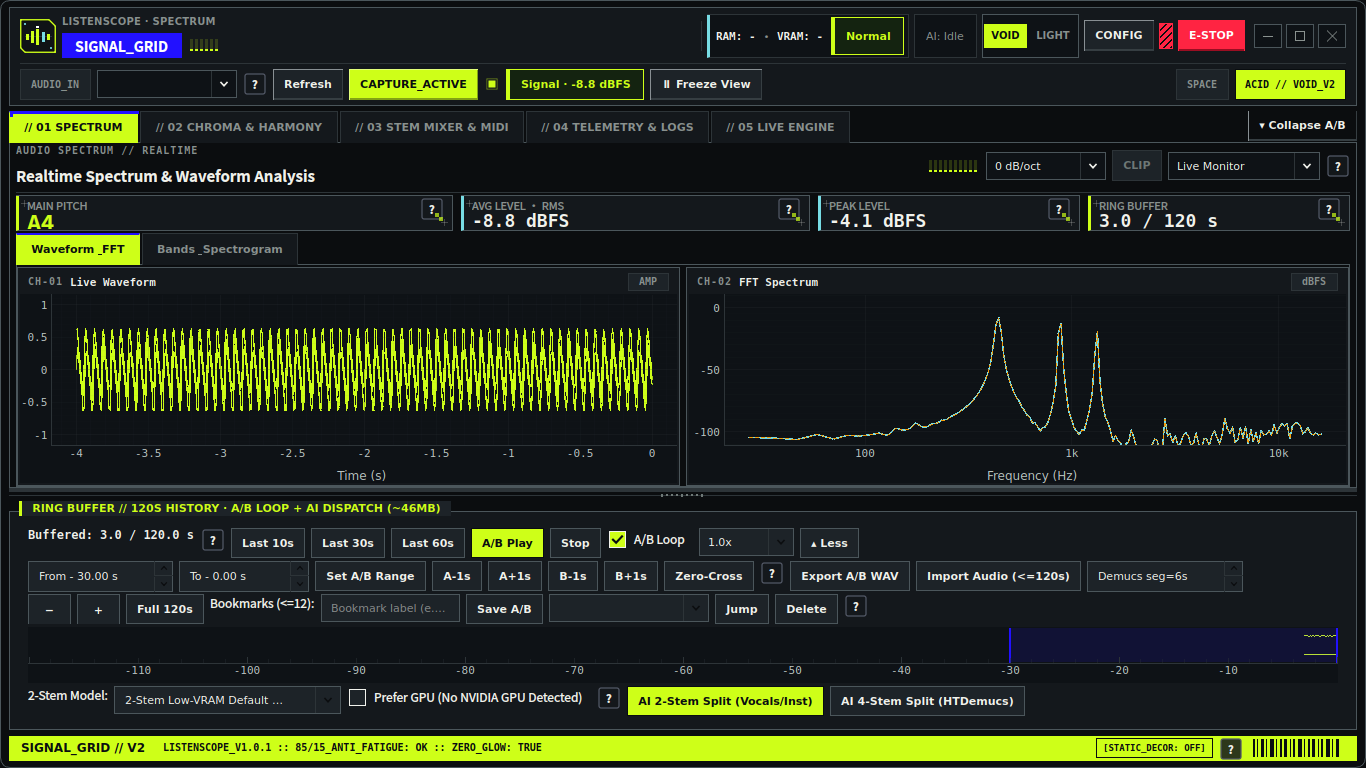
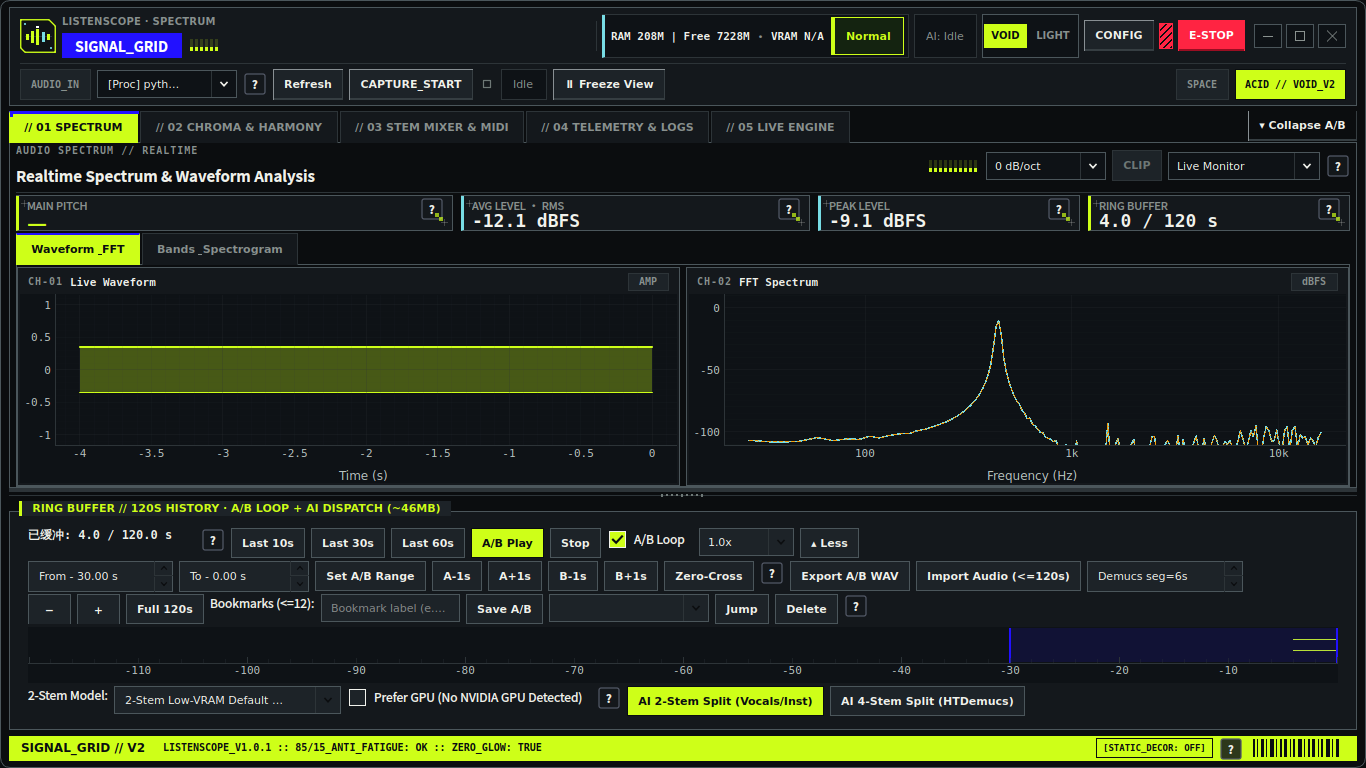
fix(U-B34): incremental 512-bucket 4s waveform envelope, AnalysisConfig.waveform_window_seconds, FillBetweenItem, and tests

diff --git a/analysis/worker.py b/analysis/worker.py
@@ -63,6 +63,20 @@ class AnalysisWorker:
         self._reset_boundary: tuple[int, int] | None = None
         self._dropped_cycles: int = 0
 
+        # Incremental 512-bucket waveform min/max ring (U-B34)
+        self._wf_num_buckets: int = max(1, int(self.config.waveform_display_points))
+        self._wf_bucket_frames: int = max(
+            1,
+            int(round(float(self.config.waveform_window_seconds) * self.audio_config.sample_rate / self._wf_num_buckets)),
+        )
+        self._wf_window_frames: int = self._wf_num_buckets * self._wf_bucket_frames
+        self._wf_min_ring = np.zeros(self._wf_num_buckets, dtype=np.float32)
+        self._wf_max_ring = np.zeros(self._wf_num_buckets, dtype=np.float32)
+        self._wf_head_bucket: int = -1
+        self._wf_last_abs: int = 0
+        self._wf_generation: Optional[int] = None
+        self._wf_reset_boundary: tuple[int, int] | None = None
+
         # 1/24-octave log-frequency FFT display grid (27.5 Hz .. 16 kHz, 221 bins)
         self._disp_f = np.geomspace(
             max(20.0, float(self.config.min_freq_hz)),
@@ -123,8 +137,164 @@ class AnalysisWorker:
             self._last_analyzed_frame = -1
             self._onset_cursor = None
             self._onset_generation = None
+            self._reset_waveform_ring()
             with self._lock:
                 self._latest_snapshot = None
+
+    def _reset_waveform_ring(self) -> None:
+        self._wf_min_ring.fill(0.0)
+        self._wf_max_ring.fill(0.0)
+        self._wf_head_bucket = -1
+        self._wf_last_abs = 0
+        self._wf_generation = None
+        self._wf_reset_boundary = None
+
+    def _update_waveform_buckets(self, mono_new: np.ndarray, abs_start: int) -> None:
+        n = int(mono_new.shape[0])
+        if n <= 0:
+            return
+        bf = self._wf_bucket_frames
+        nb = self._wf_num_buckets
+        b0 = abs_start // bf
+        b1 = (abs_start + n - 1) // bf
+
+        first_boundary = bf - (abs_start % bf)
+        if first_boundary < n:
+            boundaries = np.arange(first_boundary, n, bf, dtype=np.intp)
+            cuts = np.empty(boundaries.size + 1, dtype=np.intp)
+            cuts[0] = 0
+            cuts[1:] = boundaries
+        else:
+            cuts = np.array([0], dtype=np.intp)
+
+        b_mins = np.minimum.reduceat(mono_new, cuts)
+        b_maxs = np.maximum.reduceat(mono_new, cuts)
+
+        if self._wf_head_bucket < 0:
+            self._wf_min_ring.fill(0.0)
+            self._wf_max_ring.fill(0.0)
+            first_is_continuation = False
+        else:
+            first_is_continuation = (b0 == self._wf_head_bucket)
+            gap = b0 - self._wf_head_bucket - 1
+            if gap > 0:
+                if gap >= nb:
+                    self._wf_min_ring.fill(0.0)
+                    self._wf_max_ring.fill(0.0)
+                else:
+                    g_start = (self._wf_head_bucket + 1) % nb
+                    g_end = g_start + gap
+                    if g_end <= nb:
+                        self._wf_min_ring[g_start:g_end] = 0.0
+                        self._wf_max_ring[g_start:g_end] = 0.0
+                    else:
+                        first_part = nb - g_start
+                        self._wf_min_ring[g_start:] = 0.0
+                        self._wf_min_ring[: gap - first_part] = 0.0
+                        self._wf_max_ring[g_start:] = 0.0
+                        self._wf_max_ring[: gap - first_part] = 0.0
+
+        slot0 = b0 % nb
+        if first_is_continuation:
+            if b_mins[0] < self._wf_min_ring[slot0]:
+                self._wf_min_ring[slot0] = b_mins[0]
+            if b_maxs[0] > self._wf_max_ring[slot0]:
+                self._wf_max_ring[slot0] = b_maxs[0]
+            rem_mins = b_mins[1:]
+            rem_maxs = b_maxs[1:]
+            rem_start = (b0 + 1) % nb
+        else:
+            rem_mins = b_mins
+            rem_maxs = b_maxs
+            rem_start = slot0
+
+        m = int(rem_mins.shape[0])
+        if m > 0:
+            if m >= nb:
+                rem_mins = rem_mins[-nb:]
+                rem_maxs = rem_maxs[-nb:]
+                rem_start = (b1 - nb + 1) % nb
+                m = nb
+            rem_end = rem_start + m
+            if rem_end <= nb:
+                self._wf_min_ring[rem_start:rem_end] = rem_mins
+                self._wf_max_ring[rem_start:rem_end] = rem_maxs
+            else:
+                first_part = nb - rem_start
+                self._wf_min_ring[rem_start:] = rem_mins[:first_part]
+                self._wf_min_ring[: m - first_part] = rem_mins[first_part:]
+                self._wf_max_ring[rem_start:] = rem_maxs[:first_part]
+                self._wf_max_ring[: m - first_part] = rem_maxs[first_part:]
+
+        self._wf_head_bucket = b1
+
+    def _compute_incremental_waveform(
+        self,
+        *,
+        ring_generation: int,
+        oldest_abs: int,
+        end_abs: int,
+        pcm_start_abs: int,
+        mono_all: np.ndarray,
+    ) -> tuple[np.ndarray, np.ndarray]:
+        active_boundary = (
+            self._reset_boundary
+            if (self._reset_boundary is not None and self._reset_boundary[0] == ring_generation)
+            else None
+        )
+        effective_start = max(oldest_abs, active_boundary[1]) if active_boundary is not None else oldest_abs
+
+        if (
+            self._wf_generation != ring_generation
+            or self._wf_reset_boundary != active_boundary
+            or self._wf_last_abs > end_abs
+        ):
+            self._wf_min_ring.fill(0.0)
+            self._wf_max_ring.fill(0.0)
+            self._wf_head_bucket = -1
+            self._wf_last_abs = effective_start
+            self._wf_generation = ring_generation
+            self._wf_reset_boundary = active_boundary
+
+        if end_abs <= effective_start:
+            self._wf_min_ring.fill(0.0)
+            self._wf_max_ring.fill(0.0)
+            self._wf_head_bucket = -1
+            self._wf_last_abs = end_abs
+            return self._wf_min_ring.copy(), self._wf_max_ring.copy()
+
+        process_start = max(effective_start, self._wf_last_abs)
+        new_frames = end_abs - process_start
+        if new_frames > 0:
+            if new_frames >= self._wf_window_frames:
+                self._wf_min_ring.fill(0.0)
+                self._wf_max_ring.fill(0.0)
+                self._wf_head_bucket = -1
+                process_start = max(effective_start, end_abs - self._wf_window_frames)
+
+            if process_start >= pcm_start_abs and mono_all.shape[0] > 0:
+                mono_new = mono_all[process_start - pcm_start_abs :]
+            else:
+                pcm_seg = self.ring_buffer.read_range(process_start, end_abs)
+                if pcm_seg.shape[0] == 0:
+                    mono_new = np.empty(0, dtype=np.float32)
+                elif pcm_seg.shape[1] == 2:
+                    mono_new = (0.5 * (pcm_seg[:, 0] + pcm_seg[:, 1])).astype(np.float32, copy=False)
+                else:
+                    mono_new = np.mean(pcm_seg, axis=1, dtype=np.float32)
+            self._update_waveform_buckets(mono_new, process_start)
+            self._wf_last_abs = end_abs
+
+        if self._wf_head_bucket < 0:
+            return np.zeros(self._wf_num_buckets, dtype=np.float32), np.zeros(self._wf_num_buckets, dtype=np.float32)
+
+        split = (self._wf_head_bucket + 1) % self._wf_num_buckets
+        if split == 0:
+            return self._wf_min_ring.copy(), self._wf_max_ring.copy()
+        return (
+            np.concatenate((self._wf_min_ring[split:], self._wf_min_ring[:split])),
+            np.concatenate((self._wf_max_ring[split:], self._wf_max_ring[:split])),
+        )
 
     def latest_snapshot(self) -> Optional[AnalysisSnapshot]:
         with self._lock:
@@ -180,7 +350,14 @@ class AnalysisWorker:
             audio_silent = rms_db < self.config.silence_threshold_dbfs
             is_silent = (end_abs == prev_abs) or audio_silent
 
-        wf_min, wf_max = self.spectrum.compute_waveform_envelope(mono)
+        oldest_abs = max(0, end_abs - self.ring_buffer.capacity_frames)
+        wf_min, wf_max = self._compute_incremental_waveform(
+            ring_generation=ring_generation,
+            oldest_abs=oldest_abs,
+            end_abs=end_abs,
+            pcm_start_abs=start_abs,
+            mono_all=mono_all,
+        )
         fft_mag, fft_db, log_db = self.spectrum.analyze_frame(mono)
         pitch_est = self.pitch.estimate_from_pcm(mono, is_silent=is_silent)
 

diff --git a/tests/test_review_phase2c.py b/tests/test_review_phase2c.py
@@ -517,7 +517,6 @@ def test_ub03_dark_dock_contrast_header_no_clip_1093_no_overflow_and_tab05_acces
         mixer.close()
 
 
-@pytest.mark.xfail(strict=True, reason="U-B34")
 def test_ub34_realtime_waveform_envelope_4s_uniform_band_for_440hz_and_1khz() -> None:
     """U-B34: 4s realtime waveform min/max envelope for 440Hz & 1kHz sine must form a uniform +/-A band (no aliasing)."""
     from analysis.worker import AnalysisWorker
@@ -542,6 +541,93 @@ def test_ub34_realtime_waveform_envelope_4s_uniform_band_for_440hz_and_1khz() ->
         assert float(np.max(wmin)) <= -0.9 * amp, (
             f"{freq} Hz waveform_min rose to {float(np.max(wmin)):.3f} (need <= {-0.9 * amp:.3f})"
         )
+
+
+def test_ub34_8khz_sine_uniform_band_no_aliasing() -> None:
+    """U-B34: 8 kHz high-frequency sine over 4s window must also form a uniform +/-A band without subsampling loss."""
+    from analysis.worker import AnalysisWorker
+    from audio.ring_buffer import FixedRingBuffer
+    from core.config import AnalysisConfig, AudioConfig
+
+    acfg = AudioConfig(sample_rate=48000, channels=2, ring_buffer_seconds=10)
+    amp = 0.5
+    t = np.arange(48000 * 4, dtype=np.float32) / 48000.0
+    rb = FixedRingBuffer(acfg)
+    sig = (amp * np.sin(2.0 * np.pi * 8003.0 * t)).astype(np.float32)
+    rb.write(np.stack([sig, sig], axis=1))
+    w = AnalysisWorker(rb, audio_config=acfg, analysis_config=AnalysisConfig())
+    snap = w.analyze_latest_once()
+    wmin = np.asarray(snap.waveform_min, dtype=np.float32)
+    wmax = np.asarray(snap.waveform_max, dtype=np.float32)
+    assert wmax.size == 512 and wmin.size == 512
+    assert float(np.min(wmax)) >= 0.9 * amp
+    assert float(np.max(wmin)) <= -0.9 * amp
+
+
+def test_ub34_clear_or_generation_change_resets_waveform_ring() -> None:
+    """U-B34: RingBuffer clear/generation change resets bucket ring to zeros; partial <4s audio pads left with zeros."""
+    from analysis.worker import AnalysisWorker
+    from audio.ring_buffer import FixedRingBuffer
+    from core.config import AnalysisConfig, AudioConfig
+
+    acfg = AudioConfig(sample_rate=48000, channels=2, ring_buffer_seconds=10)
+    rb = FixedRingBuffer(acfg)
+    w = AnalysisWorker(rb, audio_config=acfg, analysis_config=AnalysisConfig())
+
+    # 1s of audio -> left 3/4 (384 buckets) must be 0.0, right 1/4 (128 buckets) non-zero
+    t1 = np.arange(48000, dtype=np.float32) / 48000.0
+    sig1 = (0.4 * np.sin(2.0 * np.pi * 440.0 * t1)).astype(np.float32)
+    rb.write(np.stack([sig1, sig1], axis=1))
+    snap1 = w.analyze_latest_once()
+    wmax1 = np.asarray(snap1.waveform_max, dtype=np.float32)
+    assert wmax1.size == 512
+    assert np.all(wmax1[:384] == 0.0)
+    assert float(np.min(wmax1[384:])) >= 0.36
+
+    # clear() bumps generation -> bucket ring must reset to all zeros
+    rb.clear()
+    snap_cleared = w.analyze_latest_once()
+    assert np.all(np.asarray(snap_cleared.waveform_min, dtype=np.float32) == 0.0)
+    assert np.all(np.asarray(snap_cleared.waveform_max, dtype=np.float32) == 0.0)
+
+
+def test_ub34_incremental_chunks_match_direct_reduceat_bucket_by_bucket() -> None:
+    """U-B34: Incremental 1s/3s/1s chunks match direct reduceat over latest 4s, and UI uses FillBetweenItem + AnalysisConfig."""
+    import pyqtgraph as pg
+    from analysis.worker import AnalysisWorker
+    from audio.ring_buffer import FixedRingBuffer
+    from core.config import AnalysisConfig, AudioConfig
+    from ui.spectrum_widget import SpectrumAnalysisWidget
+
+    acfg = AudioConfig(sample_rate=48000, channels=2, ring_buffer_seconds=10)
+    cfg = AnalysisConfig()
+    assert cfg.waveform_window_seconds == 4.0
+    rb = FixedRingBuffer(acfg)
+    w = AnalysisWorker(rb, audio_config=acfg, analysis_config=cfg)
+
+    rng = np.random.default_rng(42)
+    full_mono = rng.uniform(-0.8, 0.8, size=48000 * 5).astype(np.float32)
+
+    # Feed 1s, then 3s, then 1s (total 5s -> latest 4s is full_mono[48000:])
+    for s_start, s_end in ((0, 48000), (48000, 48000 * 4), (48000 * 4, 48000 * 5)):
+        chunk = full_mono[s_start:s_end]
+        rb.write(np.stack([chunk, chunk], axis=1))
+        snap = w.analyze_latest_once()
+
+    latest_4s = full_mono[48000:]
+    cuts = np.arange(0, 48000 * 4, 375, dtype=np.intp)
+    ref_min = np.minimum.reduceat(latest_4s, cuts)
+    ref_max = np.maximum.reduceat(latest_4s, cuts)
+    assert np.allclose(snap.waveform_min, ref_min, atol=1e-6)
+    assert np.allclose(snap.waveform_max, ref_max, atol=1e-6)
+
+    _get_app()
+    sw = SpectrumAnalysisWidget(analysis_config=cfg)
+    fills = [item for item in sw.wave_plot.listDataItems() + sw.wave_plot.getPlotItem().items if isinstance(item, pg.FillBetweenItem)]
+    assert len(fills) == 1
+    assert float(sw._cached_wave_x[0]) == pytest.approx(-cfg.waveform_window_seconds, abs=1e-4)
+    assert float(sw._cached_wave_x[-1]) == pytest.approx(0.0, abs=1e-6)
+
 
 
 

diff --git a/ui/spectrum_widget.py b/ui/spectrum_widget.py
@@ -76,9 +76,21 @@ class _FftFrequencyAxis(pg.AxisItem):
 class SpectrumAnalysisWidget(QtWidgets.QWidget):
     """Lightweight GPU/CPU-friendly PyQtGraph display consuming precomputed AnalysisSnapshot only."""
 
-    def __init__(self, parent: QtWidgets.QWidget | None = None) -> None:
+    def __init__(
+        self,
+        parent: QtWidgets.QWidget | None = None,
+        *,
+        analysis_config: Optional["AnalysisConfig"] = None,
+    ) -> None:
         super().__init__(parent)
-        self._cached_wave_x: Optional[np.ndarray] = None
+        from core.config import AnalysisConfig
+
+        cfg = analysis_config or AnalysisConfig()
+        self._waveform_window_seconds: float = float(cfg.waveform_window_seconds)
+        self._waveform_display_points: int = max(1, int(cfg.waveform_display_points))
+        self._cached_wave_x: np.ndarray = np.linspace(
+            -self._waveform_window_seconds, 0.0, self._waveform_display_points, dtype=np.float32
+        )
         self._cached_fft_freqs: Optional[list[float]] = None
         self._fft_x: Optional[np.ndarray] = None
         self._fft_slope_offset: Optional[np.ndarray] = None
@@ -219,6 +231,12 @@ class SpectrumAnalysisWidget(QtWidgets.QWidget):
         self.wave_plot.showGrid(x=True, y=True, alpha=0.22)
         self._wave_max_curve = self.wave_plot.plot(pen=pg.mkPen("#0F766E", width=1.2))
         self._wave_min_curve = self.wave_plot.plot(pen=pg.mkPen("#0F766E", width=1.2))
+        self._wave_fill = pg.FillBetweenItem(
+            self._wave_min_curve,
+            self._wave_max_curve,
+            brush=pg.mkBrush(15, 118, 110, 72),
+        )
+        self.wave_plot.addItem(self._wave_fill)
         for wc in (self._wave_max_curve, self._wave_min_curve):
             wc.setClipToView(True)
             wc.setDownsampling(auto=True, method="peak")
@@ -335,6 +353,8 @@ class SpectrumAnalysisWidget(QtWidgets.QWidget):
             wave_pen = pg.mkPen(p.plot_wave, width=1.2)
             self._wave_max_curve.setPen(wave_pen)
             self._wave_min_curve.setPen(wave_pen)
+            wqc = QtGui.QColor(p.plot_wave)
+            self._wave_fill.setBrush(pg.mkBrush(wqc.red(), wqc.green(), wqc.blue(), 64 if acid_variant == "light" else 76))
             self._fft_curve.setPen(pg.mkPen(p.plot_fft, width=1.5))
             qc = QtGui.QColor(p.plot_log)
             self._log_curve.setPen(pg.mkPen(p.plot_log, width=1.8))
@@ -353,6 +373,8 @@ class SpectrumAnalysisWidget(QtWidgets.QWidget):
         wave_pen = pg.mkPen(accent, width=1.2)
         self._wave_max_curve.setPen(wave_pen)
         self._wave_min_curve.setPen(wave_pen)
+        wqc = QtGui.QColor(accent)
+        self._wave_fill.setBrush(pg.mkBrush(wqc.red(), wqc.green(), wqc.blue(), 64 if mode == "light" else 76))
         fft_color = "#0D9488" if mode == "light" else "#2EC27E"
         self._fft_curve.setPen(pg.mkPen(fft_color, width=1.5))
         log_color = "#C2410C" if mode == "light" else "#F5A623"
@@ -539,8 +561,8 @@ class SpectrumAnalysisWidget(QtWidgets.QWidget):
 
         if snap.waveform_min and snap.waveform_max:
             n_w = len(snap.waveform_min)
-            if self._cached_wave_x is None or len(self._cached_wave_x) != n_w:
-                self._cached_wave_x = np.linspace(-4.0, 0.0, n_w, dtype=np.float32)
+            if self._cached_wave_x.shape[0] != n_w:
+                self._cached_wave_x = np.linspace(-self._waveform_window_seconds, 0.0, n_w, dtype=np.float32)
             self._wave_max_curve.setData(
                 self._cached_wave_x, np.asarray(snap.waveform_max, dtype=np.float32), skipFiniteCheck=True
             )

diff --git a/core/config.py b/core/config.py
@@ -133,12 +133,15 @@ class AnalysisConfig:
     tempo_window_seconds: int = 24          # Sliding onset window for BPM estimation
     analysis_rate_hz: float = 15.0          # ~66ms cadence on CPU worker
     silence_threshold_dbfs: float = -60.0
+    waveform_window_seconds: float = 4.0
     waveform_display_points: int = 512
     harmony_chroma_fmin_hz: float = 130.81
 
     def __post_init__(self) -> None:
         if self.fft_size < 512:
             raise ValueError("fft_size too small")
+        if self.waveform_window_seconds <= 0:
+            raise ValueError("waveform_window_seconds must be positive")
         if self.spectrum_history_seconds > 60:
             raise ValueError("spectrum_history_seconds must remain bounded <= 60s")
         if self.chroma_history_seconds > 120:
